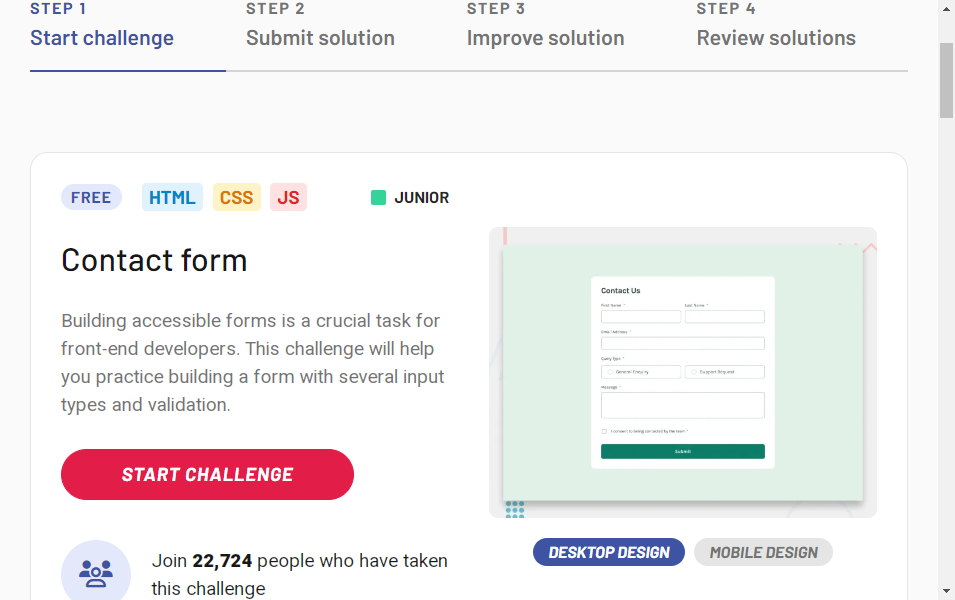
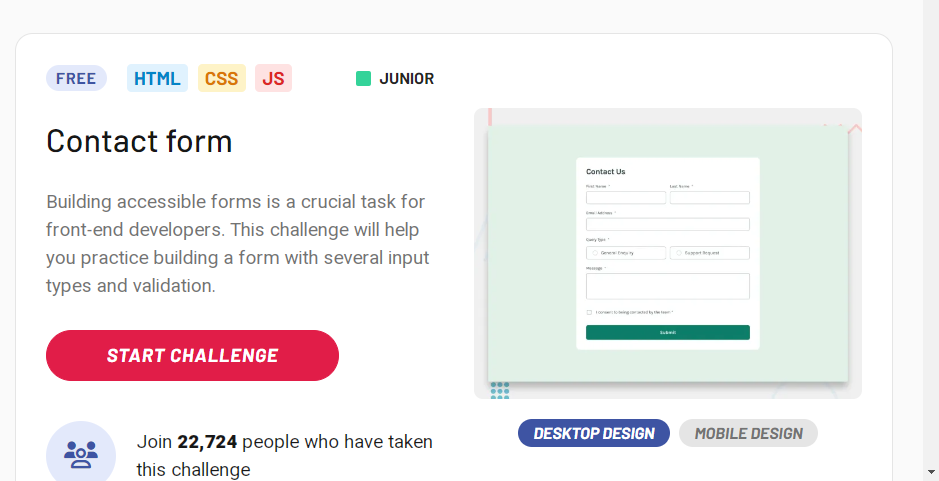
Improving the REDME

diff --git a/README.md b/README.md
@@ -1,14 +1,14 @@
-# 🎨 CSS Art & Frontend Challenges
+# CSS Frontend Challenges
 
-> A collection of coding challenges and creative designs built entirely with **HTML** and **CSS** (with a touch of JavaScript). This repository showcases my UI/UX skills, responsive design techniques, and the art of drawing with code (CSS Art).
+> A collection of coding challenges and designs built entirely with **HTML** and **CSS** (with a touch of JavaScript). This repository showcases my UI/UX skills, responsive design techniques, and the art of drawing with code (CSS Art).
 
 ---
 
-## 🚀 Projects & Challenges
+##  Projects & Challenges
 
 This repository contains the following mini-projects:
 
-### 1.  Frontend Mentor Challenge
+## 1.  Frontend Mentor Challenge
 A solution to a challenge from [Frontend Mentor](https://www.frontendmentor.io/).
 * **Description:** A fully responsive form design focusing on User Experience (UX), featuring custom form validation, error handling, and interactive focus states.
 * **Technologies:** HTML, CSS (Flexbox, CSS Variables), Vanilla JavaScript.
@@ -22,21 +22,32 @@ A solution to a challenge from [Frontend Mentor](https://www.frontendmentor.io/)
 #### Contact Form (Mobile Mode):
 ![Contact Form](Challenge-1-(Contact-form)/screenshots/contact_form_mobile.png)
 
+---
+
 #### Contact Form on frontendmentor.io website:
 ![Contact Form](Challenge-1-(Contact-form)/screenshots/frontendmentor.png)
 
 #### Contact Form on frontendmentor.io website (Mobile Mode):
 ![Contact Form](Challenge-1-(Contact-form)/screenshots/frontendmentor_mobile.png)
+
+
+
 ---
 
-### 2. ☀ Sun Rays
+
+
+## 2. ☀ Sun Rays
 * **Description:** A clever and out-of-the-box approach to creating sun rays. Instead of using complex SVGs or gradients, the rays are constructed using massive, rotated text characters (`+`) layered perfectly behind a CSS-styled circle.
 * **Technologies:** HTML Divs, CSS Positioning (`absolute`/`relative`), `z-index` layering, Typography scaling (`font-size`), and CSS `rotate`.
 
 ### Screenshot:
 
 ![Sunray](Challenge-2-CSS-(Sunray)/screenshots/sunray.png)
+
+
+
 ---
+
 
 
 ### 3.  Pure CSS Car
@@ -47,11 +58,13 @@ A solution to a challenge from [Frontend Mentor](https://www.frontendmentor.io/)
 
 ![Car](Challenge-3-CSS-(Car)/screenshots/car.png)
 
+
+
 ---
 
 
 
-### 4.  Animated "Hello World" (Blend Mode Effect)
+## 4.  Animated "Hello World" (Blend Mode Effect)
 * **Description:** A dynamic text effect where an animated shape moves continuously across the screen. By utilizing CSS blend modes, the colors of the text and the moving shape invert wherever they overlap, creating a beautiful and smooth masking illusion.
 * **Technologies:** CSS Keyframe Animations (`@keyframes`), Pseudo-elements (`::before`, `::after`), `mix-blend-mode: difference`, and `transform`.
 
